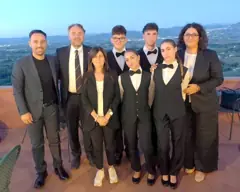
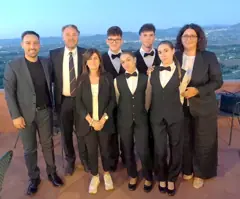
Galleria: corretto lo sbordo su smartphone, foto di gruppo WTE spostata a sinistra (#8)
Su smartphone il titolo della galleria (senza a capo) allargava tutto lo
slideshow oltre il bordo destro, tagliando foto e pulsante di chiusura.
Ritagliato il margine sinistro della foto di gruppo WTE.

Claude-Session: https://claude.ai/code/session_012JFDTQL3Lisfihm2tveeRg

diff --git a/notizie.html b/notizie.html
@@ -24,10 +24,10 @@
 .ac-gal-cta svg{width:17px;height:17px;fill:none;stroke:#d4aa4a;stroke-width:1.6;stroke-linejoin:round;flex-shrink:0}.ac-gal-cta em{font-style:normal;color:#d4aa4a;padding-left:.5rem;border-left:1px solid rgba(212,170,74,.45)}
 .ac-gal-wrap:hover .ac-gal-cta,.ac-gal-wrap:focus-within .ac-gal-cta{background:#d4aa4a;border-color:#d4aa4a;color:#1b2a1c;transform:translateY(-2px)}.ac-gal-wrap:hover .ac-gal-cta svg,.ac-gal-wrap:focus-within .ac-gal-cta svg{stroke:#1b2a1c}.ac-gal-wrap:hover .ac-gal-cta em,.ac-gal-wrap:focus-within .ac-gal-cta em{color:#1b2a1c;border-color:rgba(27,42,28,.35)}
 @media (prefers-reduced-motion:no-preference){.ac-gal-cta svg{animation:ac-gal-pulse 2.8s ease-in-out 3}}@keyframes ac-gal-pulse{0%,100%{transform:scale(1)}50%{transform:scale(1.18)}}html.gal-open,html.gal-open body{overflow:hidden}
-.gal{--g-oro:#d4aa4a;--g-av:#f5f0e8;--g-ease:cubic-bezier(.22,.61,.36,1);position:fixed;inset:0;z-index:2147483000;display:grid;grid-template-rows:auto 2px 1fr auto auto;background:radial-gradient(120% 90% at 50% 45%,#16221a 0%,#0a110b 62%,#060a07 100%);color:var(--g-av);opacity:0;transform:scale(1.015);transition:opacity .42s var(--g-ease),transform .42s var(--g-ease);padding:env(safe-area-inset-top) env(safe-area-inset-right) env(safe-area-inset-bottom) env(safe-area-inset-left)}
+.gal{--g-oro:#d4aa4a;--g-av:#f5f0e8;--g-ease:cubic-bezier(.22,.61,.36,1);position:fixed;inset:0;z-index:2147483000;display:grid;grid-template-rows:auto 2px 1fr auto auto;grid-template-columns:minmax(0,1fr);overflow:hidden;background:radial-gradient(120% 90% at 50% 45%,#16221a 0%,#0a110b 62%,#060a07 100%);color:var(--g-av);opacity:0;transform:scale(1.015);transition:opacity .42s var(--g-ease),transform .42s var(--g-ease);padding:env(safe-area-inset-top) env(safe-area-inset-right) env(safe-area-inset-bottom) env(safe-area-inset-left)}
 .gal.in{opacity:1;transform:none}.gal[hidden]{display:none}
 .gal-top{display:flex;align-items:center;gap:.7rem;padding:.85rem 1rem .75rem 1.5rem}
-.gal-titolo{flex:1;margin:0;font-family:var(--fd);font-style:italic;font-weight:300;font-size:clamp(1.05rem,.9rem + .7vw,1.45rem);line-height:1.25;color:rgba(245,240,232,.9);overflow:hidden;text-overflow:ellipsis;white-space:nowrap}
+.gal-titolo{flex:1;min-width:0;margin:0;font-family:var(--fd);font-style:italic;font-weight:300;font-size:clamp(1.05rem,.9rem + .7vw,1.45rem);line-height:1.25;color:rgba(245,240,232,.9);overflow:hidden;text-overflow:ellipsis;white-space:nowrap}
 .gal-count{font-family:var(--fu);font-size:.66rem;font-weight:800;letter-spacing:.2em;color:var(--g-oro);white-space:nowrap;font-variant-numeric:tabular-nums;margin-right:.35rem}
 .gal button{-webkit-tap-highlight-color:transparent}
 .gal-btn{display:grid;place-items:center;background:transparent;border:1px solid rgba(212,170,74,.38);color:var(--g-av);border-radius:50%;cursor:pointer;transition:background .25s ease,border-color .25s ease,color .25s ease,transform .25s ease}
